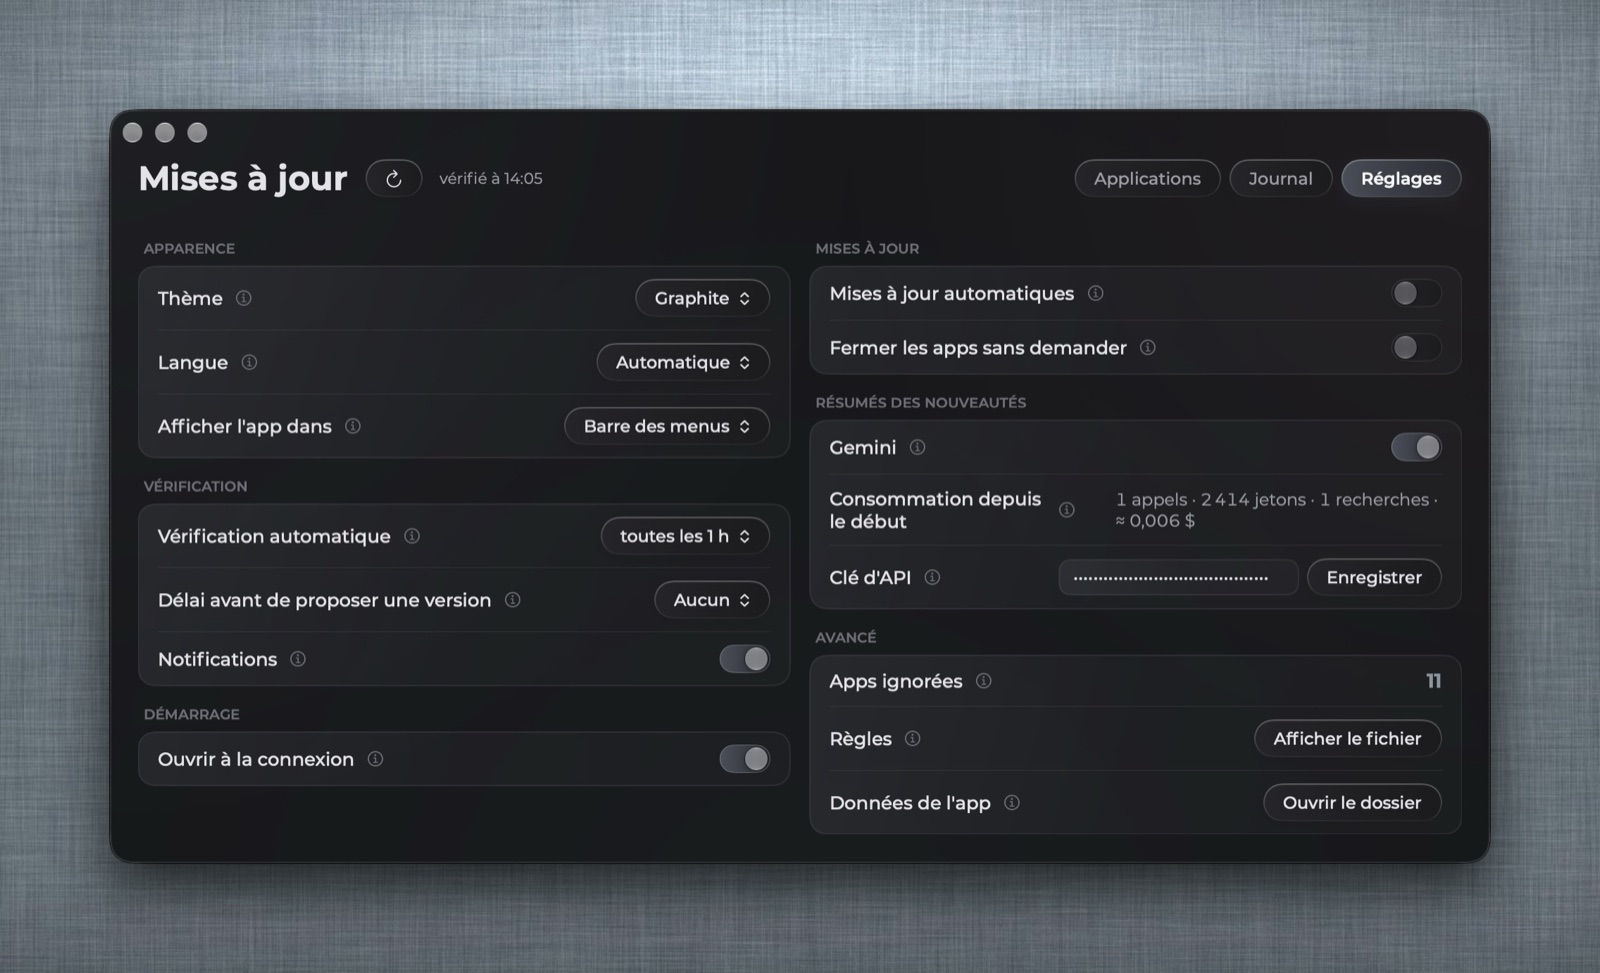
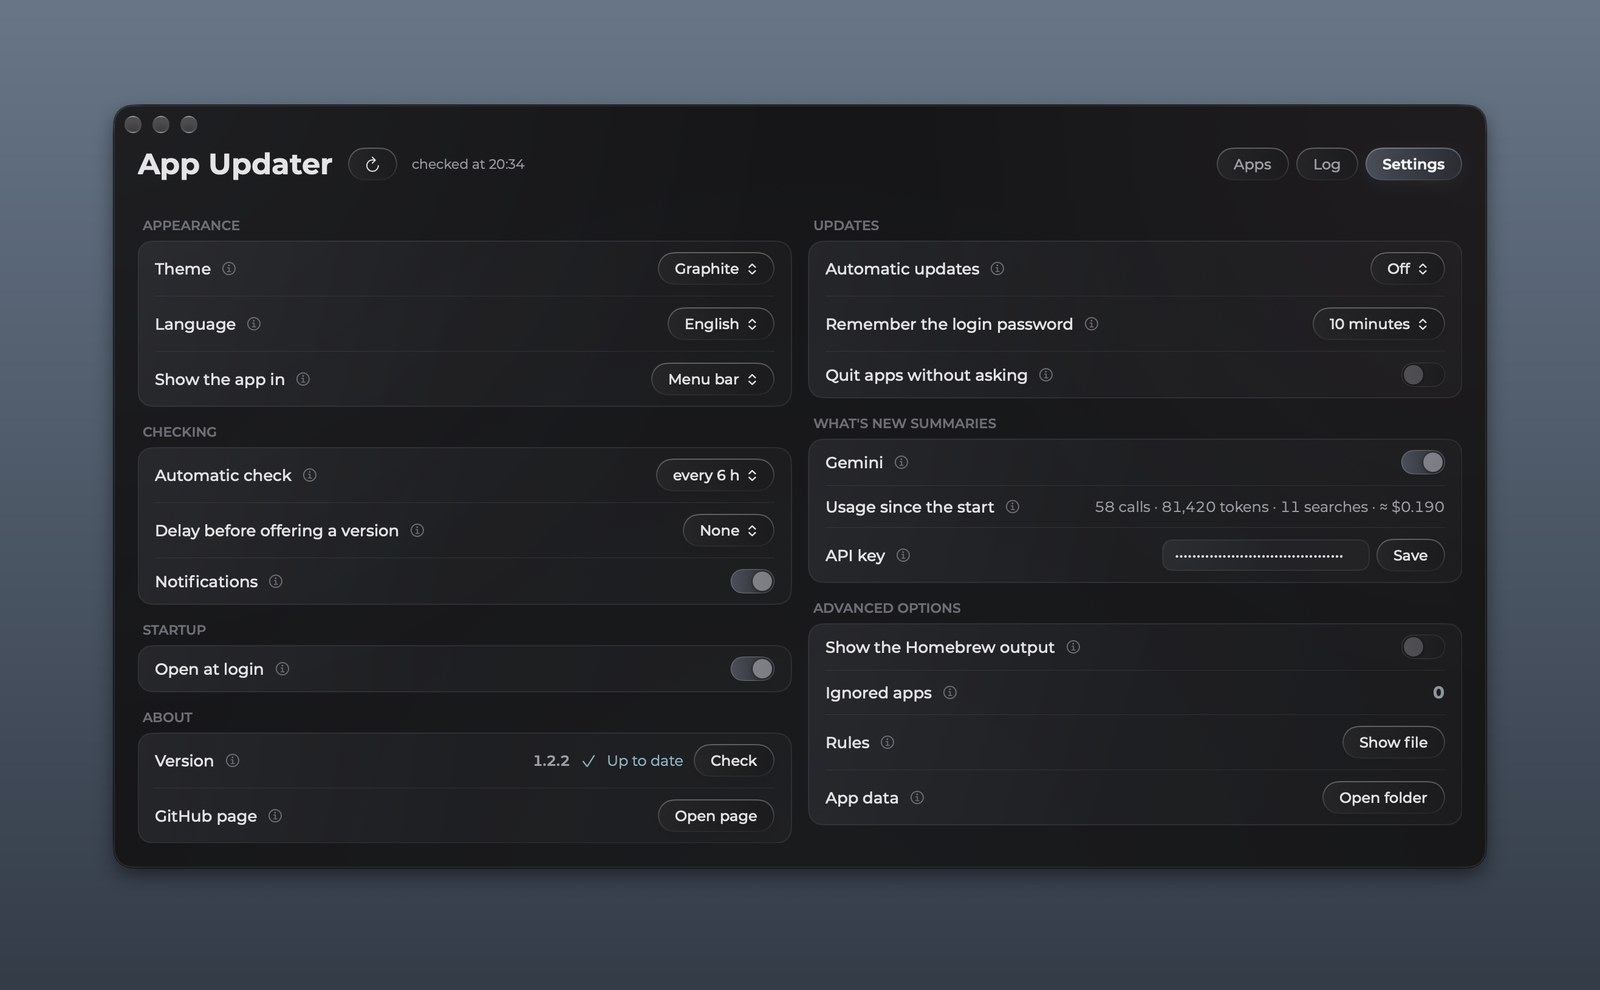
New screenshots made with demo data (--demo); About section in Settings (version, update check, GitHub page); App Store view: the Other source column no longer squeezes app names

diff --git a/Sources/AppUpdater/Vues.swift b/Sources/AppUpdater/Vues.swift
@@ -84,16 +84,19 @@ struct LigneApp: View {
                 if !compacte, autreSource, let s = m.autreSource(app) {
                     let oui = m.liberable(app)
                     Text(s).font(T.police(11)).foregroundStyle(oui ? T.versionNouvelle : T.tresDoux).lineLimit(1)
-                        .frame(width: 170, alignment: .leading)
+                        .frame(width: 200, alignment: .leading)
                         .help(oui ? L.t("L'éditeur publie sa propre version : clic droit > Libérer de l'App Store…", "The developer publishes its own version: right-click > Free from the App Store…")
                                   : L.t("Aucune version de l'éditeur connue : cette app ne se met à jour que par l'App Store", "No developer version known: this app only updates through the App Store"))
                 }
                 if !compacte {
                     Text(usage).font(T.police(11)).foregroundStyle(T.tresDoux).lineLimit(1)
                         .frame(width: 150, alignment: .leading)
-                    Text(majTexte).font(T.police(11)).foregroundStyle(T.tresDoux).lineLimit(1)
-                        .frame(width: 168, alignment: .leading)
-                        .help(L.t("Dernière mise à jour ou installation de cette app, faite ici ou ailleurs", "Last update or installation of this app, made here or elsewhere"))
+                    // Vue App Store : la colonne « Autre source » prend sa place, sinon le nom des apps n'a plus la largeur de s'afficher.
+                    if !autreSource {
+                        Text(majTexte).font(T.police(11)).foregroundStyle(T.tresDoux).lineLimit(1)
+                            .frame(width: 168, alignment: .leading)
+                            .help(L.t("Dernière mise à jour ou installation de cette app, faite ici ou ailleurs", "Last update or installation of this app, made here or elsewhere"))
+                    }
                 }
                 versions
                 if !compacte { pastille }
@@ -283,12 +286,12 @@ enum Tri: CaseIterable, Identifiable {
 
 final class EtatFenetre: ObservableObject {
     @Published var onglet: Onglet = CommandLine.arguments.contains("--reglages") ? .reglages : .applications   // --reglages : pour vérifier la page
-    @Published var filtre: Filtre = CommandLine.arguments.contains("--toutes") ? .toutes : .aMettreAJour   // --toutes : pour vérifier la page
+    @Published var filtre: Filtre = CommandLine.arguments.contains("--toutes") || CommandLine.arguments.contains("--appstore") ? .toutes : .aMettreAJour   // --toutes : pour vérifier la page
     @Published var recherche = ""
     @Published var sortieOuverte = false
     @Published var survolDepot = false
     @Published var tri: Tri = .nom
-    @Published var source: Source? = nil   // nil : toutes les sources
+    @Published var source: Source? = CommandLine.arguments.contains("--appstore") ? .appStore : nil   // nil : toutes les sources ; --appstore : pour les captures
     @Published var liberables = false      // seulement les apps App Store qui ont une version de l'éditeur
 }
 
@@ -634,7 +637,7 @@ struct JournalVue: View {
 // MARK: - Réglages
 
 final class EtatReglages: ObservableObject {
-    @Published var cleGemini = Resumeur.cle ?? ""
+    @Published var cleGemini = Demo.actif ? String(repeating: "•", count: 39) : Resumeur.cle ?? ""
     @Published var verification: String?     // nil : rien à dire ; "" : clé valide ; sinon l'erreur
     @Published var enTest = false
     @Published var modele = Resumeur.modele
@@ -677,6 +680,15 @@ struct ReglagesVue: View {
                     ligne(L.t("Ouvrir à la connexion", "Open at login"), L.t("L'app se lance seule à l'ouverture de ta session.", "The app starts by itself when you log in.")) {
                         Toggle("", isOn: Binding(get: { m.lancementSession }, set: { m.basculerLancementSession($0) }))
                             .toggleStyle(Interrupteur()).labelsHidden()
+                    }
+                }
+                // En bas de la colonne de gauche, la plus courte : la page ne grandit presque pas.
+                rubrique(L.t("À propos", "About")) {
+                    ligne(L.t("Version", "Version"), L.t("L'app cherche aussi seule une nouvelle version à chaque lancement, et l'annonce alors par un bandeau en haut de la fenêtre.", "The app also looks for a new version by itself at every launch, and then announces it with a banner at the top of the window.")) {
+                        versionApp
+                    }
+                    ligne(L.t("Page GitHub", "GitHub page"), L.t("Le code source, les nouveautés de chaque version, et l'endroit où signaler un problème.", "The source code, what's new in each version, and where to report a problem.")) {
+                        Button(L.t("Ouvrir la page", "Open page")) { NSWorkspace.shared.open(Moteur.pageApp) }.buttonStyle(BoutonDiscret())
                     }
                 }
             }
@@ -759,8 +771,33 @@ struct ReglagesVue: View {
         }
     }
 
+    /// « 1.2.2  ✓ À jour  [Vérifier] », ou le bouton qui installe la nouvelle version.
+    private var versionApp: some View {
+        HStack(spacing: 8) {
+            Text(Moteur.versionApp).font(T.police(12, .semibold)).foregroundStyle(T.doux).monospacedDigit()
+            if m.majApp || m.verifApp == .enCours {
+                ProgressView().controlSize(.small)
+            } else if let p = m.nouvelleVersionApp {
+                if Moteur.copiePerso || p.fichier == nil {
+                    Button(L.t("Voir la \(p.version)", "View \(p.version)")) { Task { await m.mettreAJourApp() } }.buttonStyle(BoutonDiscret())
+                } else {
+                    Button(L.t("Installer la \(p.version)", "Install \(p.version)")) { Task { await m.mettreAJourApp() } }
+                        .buttonStyle(BoutonPlein(teinte: Boutons.mettreAJour))
+                }
+            } else {
+                if m.verifApp == .faite {
+                    Label(L.t("À jour", "Up to date"), systemImage: "checkmark").font(T.police(12)).foregroundStyle(T.statut)
+                } else if m.verifApp == .echec {
+                    Label(L.t("GitHub injoignable", "GitHub unreachable"), systemImage: "xmark").font(T.police(12)).foregroundStyle(T.framboise)
+                }
+                Button(L.t("Vérifier", "Check")) { Task { await m.verifierApp() } }.buttonStyle(BoutonDiscret())
+            }
+        }
+    }
+
     /// « 12 appels · 34 500 jetons · 3 recherches · ≈ 0,04 $ »
     private var consommation: String {
+        if Demo.actif { return L.t("58 appels · 81 420 jetons · 11 recherches · ≈ 0,190 $", "58 calls · 81,420 tokens · 11 searches · ≈ $0.190") }
         let c = Consommation.lire().values
         let appels = c.reduce(0) { $0 + $1.appels }
         let jetons = c.reduce(0) { $0 + $1.entree + $1.sortie }

diff --git a/Sources/AppUpdater/Moteur.swift b/Sources/AppUpdater/Moteur.swift
@@ -133,7 +133,7 @@ final class Moteur: ObservableObject {
         // Ouverture à la connexion : macOS la rattache à l'emplacement de l'app. Si l'app a été déplacée
         // (dans /Applications par exemple), on la réinscrit depuis son nouvel emplacement.
         let voulu = reglages.object(forKey: "ouvrirConnexion") as? Bool ?? (SMAppService.mainApp.status == .enabled)
-        if voulu && SMAppService.mainApp.status != .enabled { try? SMAppService.mainApp.register() }
+        if voulu && !Demo.actif && SMAppService.mainApp.status != .enabled { try? SMAppService.mainApp.register() }
         lancementSession = SMAppService.mainApp.status == .enabled
         let journal = Historique.journal()
         historique = journal
@@ -148,6 +148,17 @@ final class Moteur: ObservableObject {
         majAuto = reglages.string(forKey: "majAuto").flatMap(MajAuto.init(rawValue:)) ?? (reglages.bool(forKey: "automatique") ? .fermees : .non)
         voirSortieBrew = reglages.bool(forKey: "voirSortieBrew")
         gemini = reglages.bool(forKey: "gemini")
+        if Demo.actif {
+            // Chaque démo repart d'une liste propre : rien de ce qui a été coché ou ignoré la fois d'avant.
+            ignorees = [:]; nonSuivies = []; rythmes = [:]; attenteDepuis = [:]; refusees = [:]
+            apps = Demo.apps
+            tailles = Demo.tailles
+            resumes = Demo.resumes
+            lancementSession = true
+            derniereVerif = Date()
+            verifApp = .faite
+            return
+        }
         planifier()
         surveillerApplications()
         Task { await verifier() }
@@ -262,6 +273,7 @@ final class Moteur: ObservableObject {
     // MARK: - Vérification
 
     func verifier() async {
+        guard !Demo.actif else { return }   // démo : aucun bouton n'agit
         guard !enCours else { return }
         enCours = true
         let r = await Verification.tout()
@@ -335,6 +347,7 @@ final class Moteur: ObservableObject {
     private var messageGemini: String?
 
     func resumer() async {
+        guard !Demo.actif else { return }   // démo : aucun bouton n'agit
         guard gemini, let k = Resumeur.cle else { return }
         if let g = messageGemini { avis.removeAll { $0.texte == g } }
         messageGemini = nil
@@ -375,15 +388,27 @@ final class Moteur: ObservableObject {
     /// Une copie perso (réglages propres, perso.json) ne se remplace pas par la version publique : elle signale seulement.
     static var copiePerso: Bool { ConfigApp.perso != nil }
 
-    private func verifierApp() async {
-        guard let p = try? await Regles.github(Self.depotApp), Versions.plusRecent(p.version, que: Self.versionApp) else {
+    static let pageApp = URL(string: "https://github.com/\(depotApp)")!
+
+    /// État de la dernière recherche d'une nouvelle version de cette app, pour la rubrique « À propos ».
+    enum VerifApp { case pasEncore, enCours, faite, echec }
+    @Published var verifApp: VerifApp = .pasEncore
+
+    func verifierApp() async {
+        guard !Demo.actif else { return }   // démo : aucun bouton n'agit
+        verifApp = .enCours
+        do {
+            let p = try await Regles.github(Self.depotApp)
+            nouvelleVersionApp = Versions.plusRecent(p.version, que: Self.versionApp) ? p : nil
+            verifApp = .faite
+        } catch {
             nouvelleVersionApp = nil
-            return
+            verifApp = .echec
         }
-        nouvelleVersionApp = p
     }
 
     func mettreAJourApp() async {
+        guard !Demo.actif else { return }   // démo : aucun bouton n'agit
         guard let p = nouvelleVersionApp else { return }
         guard !Self.copiePerso, let f = p.fichier else {
             if let u = p.url { NSWorkspace.shared.open(u) }
@@ -553,6 +578,7 @@ final class Moteur: ObservableObject {
     // MARK: - Mise à jour
 
     func mettreAJour(_ a: AppInstallee) async {
+        guard !Demo.actif else { return }   // démo : aucun bouton n'agit
         await lancer(a)
         if a.action.installe { revenirAuPremierPlan() }
     }
@@ -591,6 +617,7 @@ final class Moteur: ObservableObject {
 
     /// Toutes, comme si tout était coché : Homebrew installe, les autres ouvrent leur App Store, leur page ou le Terminal.
     func toutMettreAJour() async {
+        guard !Demo.actif else { return }   // démo : aucun bouton n'agit
         await enLot(cochables)
     }
 
@@ -609,6 +636,7 @@ final class Moteur: ObservableObject {
 
     /// Les apps cochées, dans l'ordre de la liste : Homebrew installe, les autres ouvrent leur App Store ou leur page.
     func mettreAJourSelection() async {
+        guard !Demo.actif else { return }   // démo : aucun bouton n'agit
         await enLot(cochables.filter { selection.contains($0.id) })
     }
 
@@ -863,6 +891,7 @@ final class Moteur: ObservableObject {
     /// Remplace la version App Store par celle de l'éditeur, après confirmation. Les contrôles sont ceux d'une
     /// mise à jour : même identifiant d'app, même éditeur signataire, faite pour ce processeur. L'ancienne part à la Corbeille.
     func libererDeLAppStore(_ a: AppInstallee) async {
+        guard !Demo.actif else { return }   // démo : aucun bouton n'agit
         guard liberable(a), let k = a.cask, let u = k.url.flatMap(URL.init(string:)) else { return }
         let r = demander(L.t("Libérer \(a.nom) de l'App Store", "Free \(a.nom) from the App Store"),
                          L.t("⚠  Vérifiez que vous ne payez pas d'abonnement pour cette application via l'App Store.\n\n⚠  Vous allez devoir reconfigurer le logiciel comme si c'était une première installation.",
@@ -1084,6 +1113,7 @@ final class Moteur: ObservableObject {
 
     /// Renvoie un message d'erreur, ou nil si tout est parti à la Corbeille.
     func desinstaller(_ a: AppInstallee, _ chemins: [String]) async -> String? {
+        guard !Demo.actif else { return nil }   // démo : aucun bouton n'agit
         guard await fermer(a, pour: L.t("Pour la désinstaller, il faut la fermer.", "It has to quit to be uninstalled.")) != nil else {
             return message ?? L.t("\(a.nom) n'est pas fermée", "\(a.nom) is still open")
         }

diff --git a/Sources/AppUpdater/Demo.swift b/Sources/AppUpdater/Demo.swift
@@ -1,0 +1,74 @@
+import Foundation
+
+/// --demo : la fenêtre se remplit d'une liste fictive (versions et résumés inventés) pour les captures d'écran du
+/// README. Rien n'est lu ni vérifié, et aucun bouton n'agit : on ne peut rien mettre à jour ni désinstaller.
+/// Les icônes sont celles des apps présentes dans /Applications ; absente, une app a l'icône générique.
+enum Demo {
+    static let actif = CommandLine.arguments.contains("--demo")
+
+    private static func jours(_ n: Double) -> Date { Date().addingTimeInterval(-n * 86_400) }
+
+    private static func app(_ nom: String, _ id: String, _ version: String, _ source: Source, mas: Bool = false,
+                            nouvelle: String? = nil, action: Action = .aucune, cask: CaskInfo? = nil,
+                            utilisee: Double?, ajoutee: Double) -> AppInstallee {
+        var a = AppInstallee(chemin: "/Applications/\(nom).app", nom: nom, bundleId: id, version: version, build: version,
+                             feedSparkle: nil, mas: mas, derniereUtilisation: utilisee.map(jours), dateAjout: jours(ajoutee))
+        a.source = source
+        a.disponible = nouvelle ?? version
+        a.aJour = nouvelle == nil
+        a.action = action
+        a.cask = cask
+        return a
+    }
+
+    private static func cask(_ token: String, _ url: String, apps: [String] = [], pkg: Bool = false) -> CaskInfo {
+        CaskInfo(token: token, url: url, version: nil, apps: apps, terminal: pkg, autoUpdates: true)
+    }
+
+    private static let page = URL(string: "https://example.com")!
+
+    static let apps: [AppInstallee] = [
+        // Mises à jour proposées
+        app("Firefox", "org.mozilla.firefox", "144.0.2", .homebrew, nouvelle: "145.0", action: .brew(token: "firefox", terminal: false), utilisee: 0.02, ajoutee: 12),
+        app("VLC", "org.videolan.vlc", "3.0.21", .sparkle, nouvelle: "3.0.22", action: .installer(page, sha256: nil), utilisee: 3, ajoutee: 140),
+        app("Visual Studio Code", "com.microsoft.VSCode", "1.105.1", .homebrew, nouvelle: "1.106.0", action: .brew(token: "visual-studio-code", terminal: false), utilisee: 0.2, ajoutee: 26),
+        app("Keynote", "com.apple.iWork.Keynote", "14.4", .appStore, mas: true, nouvelle: "14.5", action: .appStore(page), utilisee: 9, ajoutee: 60),
+        app("LosslessCut", "no.mifi.losslesscut", "3.64.0", .github, nouvelle: "3.65.0", action: .page(page), utilisee: 21, ajoutee: 75),
+        // À jour
+        app("AppCleaner", "net.freemacsoft.AppCleaner", "3.6.8", .homebrew, utilisee: 5, ajoutee: 200),
+        app("ImageOptim", "net.pornel.ImageOptim", "1.9.3", .sparkle, utilisee: 14, ajoutee: 90),
+        app("Keka", "com.aone.keka", "1.6.2", .homebrew, utilisee: 2, ajoutee: 33),
+        app("Google Chrome", "com.google.Chrome", "142.0.7444.60", .integree, utilisee: 1, ajoutee: 4),
+        app("Spotify", "com.spotify.client", "1.2.74", .integree, utilisee: 0.1, ajoutee: 6),
+        app("Shotcut", "org.shotcut.Shotcut", "25.10.31", .github, utilisee: 40, ajoutee: 8),
+        app("DeepL", "com.linguee.DeepLCopyTranslator", "25.11.1", .editeur, utilisee: 0.5, ajoutee: 3),
+        // App Store : avec ou sans version de l'éditeur
+        app("Numbers", "com.apple.iWork.Numbers", "14.4", .appStore, mas: true, utilisee: 30, ajoutee: 60),
+        app("Pages", "com.apple.iWork.Pages", "14.4", .appStore, mas: true, utilisee: 12, ajoutee: 60),
+        app("Microsoft Word", "com.microsoft.Word", "16.103", .appStore, mas: true,
+            cask: cask("microsoft-word", "https://example.com/Microsoft_Word_Installer.pkg", pkg: true), utilisee: 4, ajoutee: 15),
+        app("Microsoft Excel", "com.microsoft.Excel", "16.103", .appStore, mas: true,
+            cask: cask("microsoft-excel", "https://example.com/Microsoft_Excel_Installer.pkg", pkg: true), utilisee: 7, ajoutee: 15),
+        app("Tailscale", "io.tailscale.ipn.macsys", "1.90.6", .appStore, mas: true,
+            cask: cask("tailscale-app", "https://example.com/Tailscale.zip", apps: ["Tailscale.app"]), utilisee: 0.3, ajoutee: 20),
+        app("The Unarchiver", "com.macpaw.site.theunarchiver", "4.3.9", .appStore, mas: true,
+            cask: cask("the-unarchiver", "https://example.com/TheUnarchiver.zip", apps: ["The Unarchiver.app"]), utilisee: 18, ajoutee: 110),
+        app("TestFlight", "com.apple.TestFlight", "3.8.1", .appStore, mas: true, utilisee: nil, ajoutee: 300),
+    ].sorted { $0.nom.localizedCaseInsensitiveCompare($1.nom) == .orderedAscending }
+
+    /// Taille sur le disque, en Mo.
+    static let tailles: [String: Int64] = Dictionary(uniqueKeysWithValues: [
+        ("Firefox", 412), ("VLC", 186), ("Visual Studio Code", 640), ("Keynote", 732), ("LosslessCut", 389), ("AppCleaner", 9),
+        ("ImageOptim", 28), ("Keka", 61), ("Google Chrome", 1_240), ("Spotify", 512), ("Shotcut", 395), ("DeepL", 233),
+        ("Numbers", 598), ("Pages", 645), ("Microsoft Word", 2_310), ("Microsoft Excel", 2_150), ("Tailscale", 79),
+        ("The Unarchiver", 34), ("TestFlight", 41),
+    ].map { ("/Applications/\($0.0).app", Int64($0.1) * 1_000_000) })
+
+    /// Résumés en deux phrases, comme ceux de Gemini (« web| » : trouvé par une recherche web).
+    static let resumes: [String: String] = [
+        "org.mozilla.firefox@145.0": L.t("Ajoute le regroupement automatique des onglets. Corrige plusieurs failles de sécurité.", "Adds automatic tab grouping. Fixes several security issues."),
+        "org.videolan.vlc@3.0.22": L.t("Corrige la lecture de certains fichiers MKV et améliore la prise en charge des sous-titres.", "Fixes playback of some MKV files and improves subtitle support."),
+        "com.microsoft.VSCode@1.106.0": L.t("Nouvelle vue des modifications en attente et terminal plus rapide. Corrige des plantages au démarrage.", "New pending changes view and a faster terminal. Fixes startup crashes."),
+        "com.apple.iWork.Keynote@14.5": "web|" + L.t("Corrections de bugs et améliorations de stabilité.", "Bug fixes and stability improvements."),
+    ]
+}

diff --git a/Sources/AppUpdater/App.swift b/Sources/AppUpdater/App.swift
@@ -51,6 +51,12 @@ final class Delegue: NSObject, NSApplicationDelegate, NSWindowDelegate {
             .debounce(for: .milliseconds(80), scheduler: RunLoop.main)
             .sink { [weak self] h in self?.ajusterHauteur(h) }
         if CommandLine.arguments.contains("--fenetre") { montrerFenetre() }
+        // --panneau : le panneau de la barre des menus s'ouvre seul, pour les captures d'écran.
+        if CommandLine.arguments.contains("--panneau") {
+            DispatchQueue.main.asyncAfter(deadline: .now() + 1) { [weak self] in
+                if let b = self?.icone.button { self?.panneau.show(relativeTo: b.bounds, of: b, preferredEdge: .minY) }
+            }
+        }
     }
 
     /// Double-clic sur l'app alors qu'elle tourne déjà : la fenêtre.

diff --git a/README.md b/README.md
@@ -4,7 +4,13 @@ A small menu bar app that checks every app in `/Applications` for updates and in
 
 ![Updates to install](docs/apps.jpg)
 
+![App Store apps that can be freed](docs/app-store.jpg)
+
 ![Settings](docs/settings.jpg)
+
+![Menu bar panel](docs/menu-bar.jpg)
+
+*Screenshots made with demo data (`--demo`): the versions and summaries are made up.*
 
 ## What it does
 
@@ -18,6 +24,7 @@ A small menu bar app that checks every app in `/Applications` for updates and in
   - with Homebrew when it knows the app;
   - otherwise by downloading the new `.zip` or `.dmg` itself, checking its hash when published, checking it is signed by the same developer, then replacing the app (the old one goes to the Trash);
   - App Store apps open their App Store page.
+- **Frees apps from the App Store**: when the developer also publishes its own version (`.zip`, `.dmg` or `.pkg` known to Homebrew), right-click "Free from the App Store…" replaces the App Store copy with it, after checking it is signed by the same developer. The "Other source" column and the "Can be freed" filter show which apps qualify.
 - **Several at once**: check boxes, or "Update all", one after the other with a progress bar.
 - **Explains apps it cannot track**: component of another app, self-updating, discontinued…
 - **Uninstalls like AppCleaner**: the app and its leftovers in `~/Library`, all moved to the Trash. Drop an app on the window, or right-click it.
